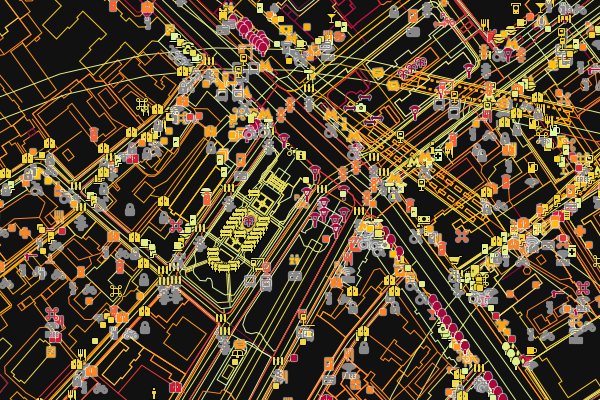
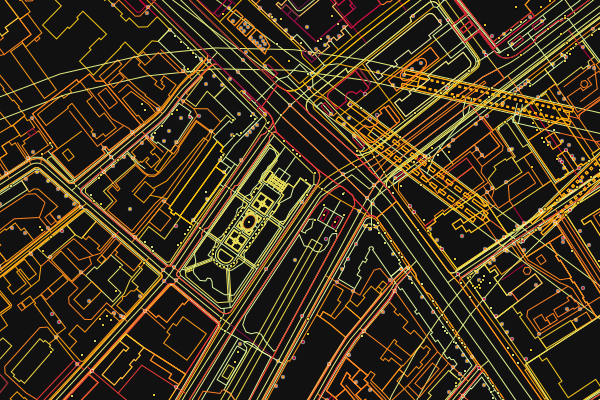
Fix special mode nodes.

diff --git a/roentgen/constructor.py b/roentgen/constructor.py
@@ -429,16 +429,21 @@ class Constructor:
 
             priority: int
             icon_set: IconSet
-            icon_set, priority = self.scheme.get_icon(self.icon_extractor, tags)
 
             if self.mode in ["time", "user-coloring"]:
                 if not tags:
                     continue
-                icon_set.icons = [[DEFAULT_SMALL_SHAPE_ID]]
-            if self.mode == "user-coloring":
-                icon_set.color = get_user_color(node.user, self.seed)
-            if self.mode == "time":
-                icon_set.color = get_time_color(node.timestamp, self.map_.time)
+                if self.mode == "user-coloring":
+                    color = get_user_color(node.user, self.seed)
+                if self.mode == "time":
+                    color = get_time_color(node.timestamp, self.map_.time)
+                dot, _ = self.icon_extractor.get_path(DEFAULT_SMALL_SHAPE_ID)
+                icon_set = IconSet([dot], [], color, set(), True)
+                priority = 0
+            else:
+                icon_set, priority = self.scheme.get_icon(
+                    self.icon_extractor, tags
+                )
 
             self.nodes.append(Point(
                 icon_set, tags, flung, node.coordinates, priority=priority))
